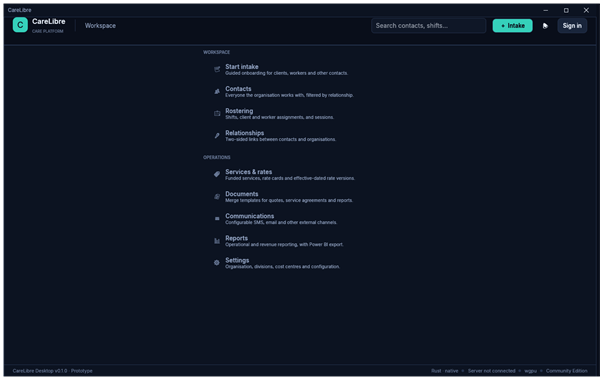
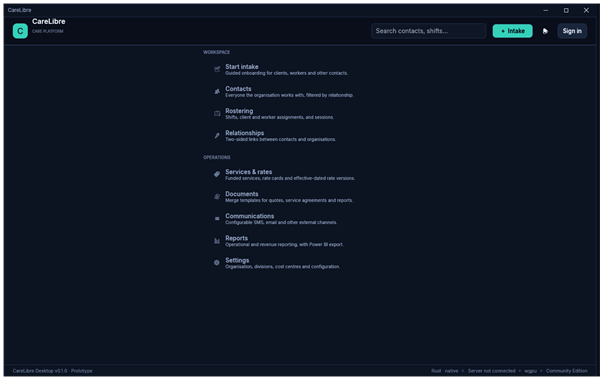
Centre top bar controls and remove page selection highlights
Vertically centres the brand, search, intake, notifications and account controls in the top bar. Removes the current-page label from the top bar and the selected styling from sidebar navigation, since pages now open independently as columns. Refreshes the screenshot gallery.

diff --git a/src/app.rs b/src/app.rs
@@ -4811,7 +4811,7 @@ impl CareLibreApp {
                     .stroke(Stroke::new(1.0, theme::border())),
             )
             .show(ui, |ui| {
-                ui.horizontal(|ui| {
+                ui.horizontal_centered(|ui| {
                     // Brand
                     let (logo, _) = ui.allocate_exact_size(vec2(34.0, 34.0), Sense::hover());
                     ui.painter()
@@ -4832,19 +4832,6 @@ impl CareLibreApp {
                                 .size(8.5),
                         );
                     });
-
-                    ui.add_space(14.0);
-                    let (separator, _) = ui.allocate_exact_size(vec2(1.0, 26.0), Sense::hover());
-                    ui.painter()
-                        .rect_filled(separator, CornerRadius::ZERO, theme::border());
-                    ui.add_space(14.0);
-
-                    let page_label = if self.page_column_open() {
-                        format!("{}  {}", self.page.icon(), self.page.label())
-                    } else {
-                        "Workspace".to_owned()
-                    };
-                    ui.label(RichText::new(page_label).color(theme::muted()).size(13.0));
 
                     ui.with_layout(Layout::right_to_left(Align::Center), |ui| {
                         match &account {
@@ -4955,7 +4942,6 @@ impl CareLibreApp {
             ((panel_width - SIDEBAR_WIDTH) / (full_width - SIDEBAR_WIDTH).max(1.0)).clamp(0.0, 1.0);
         let content_width =
             (SIDEBAR_WIDTH - 24.0) + (CENTERED_MENU_WIDTH - (SIDEBAR_WIDTH - 24.0)) * centeredness;
-        let active_page = self.page_column_open().then_some(self.page);
 
         egui::Panel::left("sidebar")
             .exact_size(panel_width)
@@ -4987,7 +4973,6 @@ impl CareLibreApp {
                 group_label(&mut menu_ui, "WORKSPACE");
                 if nav_button(
                     &mut menu_ui,
-                    active_page == Some(Page::Intake),
                     "📝",
                     "Start intake",
                     "Guided onboarding for clients, workers and other contacts.",
@@ -4999,9 +4984,7 @@ impl CareLibreApp {
                     self.open_intake();
                 }
                 for page in [Page::Contacts, Page::Rostering, Page::Relationships] {
-                    if nav_item(&mut menu_ui, active_page == Some(page), page, centeredness)
-                        .clicked()
-                    {
+                    if nav_item(&mut menu_ui, page, centeredness).clicked() {
                         self.open_page(page);
                     }
                 }
@@ -5014,21 +4997,13 @@ impl CareLibreApp {
                     Page::Communications,
                     Page::Reports,
                 ] {
-                    if nav_item(&mut menu_ui, active_page == Some(page), page, centeredness)
-                        .clicked()
-                    {
+                    if nav_item(&mut menu_ui, page, centeredness).clicked() {
                         self.open_page(page);
                     }
                 }
 
                 if centeredness > 0.5
-                    && nav_item(
-                        &mut menu_ui,
-                        active_page == Some(Page::Settings),
-                        Page::Settings,
-                        centeredness,
-                    )
-                    .clicked()
+                    && nav_item(&mut menu_ui, Page::Settings, centeredness).clicked()
                 {
                     self.open_page(Page::Settings);
                 }
@@ -5043,14 +5018,7 @@ impl CareLibreApp {
                             ui.add_space(8.0);
                             ui.separator();
                             ui.add_space(8.0);
-                            if nav_item(
-                                ui,
-                                active_page == Some(Page::Settings),
-                                Page::Settings,
-                                0.0,
-                            )
-                            .clicked()
-                            {
+                            if nav_item(ui, Page::Settings, 0.0).clicked() {
                                 self.open_page(Page::Settings);
                             }
                             ui.add_space(10.0);
@@ -5211,22 +5179,13 @@ fn group_label(ui: &mut Ui, text: &str) {
     ui.add_space(4.0);
 }
 
-fn nav_item(ui: &mut Ui, selected: bool, page: Page, detail: f32) -> egui::Response {
+fn nav_item(ui: &mut Ui, page: Page, detail: f32) -> egui::Response {
     let height = 38.0 + 8.0 * detail;
-    nav_button(
-        ui,
-        selected,
-        page.icon(),
-        page.label(),
-        page.blurb(),
-        detail,
-        height,
-    )
+    nav_button(ui, page.icon(), page.label(), page.blurb(), detail, height)
 }
 
 fn nav_button(
     ui: &mut Ui,
-    selected: bool,
     icon: &str,
     label: &str,
     tooltip: &str,
@@ -5239,13 +5198,7 @@ fn nav_button(
     let hover =
         ui.ctx()
             .animate_bool_with_time(response.id.with("nav_hover"), response.hovered(), 0.14);
-    if selected {
-        ui.painter()
-            .rect_filled(rect, CornerRadius::same(9), theme::accent_soft(24));
-        let bar = egui::Rect::from_min_size(rect.left_center() + vec2(7.0, -9.0), vec2(3.0, 18.0));
-        ui.painter()
-            .rect_filled(bar, CornerRadius::same(2), theme::accent());
-    } else if hover > 0.0 {
+    if hover > 0.0 {
         ui.painter().rect_filled(
             rect,
             CornerRadius::same(9),
@@ -5253,16 +5206,8 @@ fn nav_button(
         );
     }
 
-    let text_colour = if selected {
-        theme::text()
-    } else {
-        theme::muted()
-    };
-    let icon_colour = if selected {
-        theme::accent()
-    } else {
-        theme::faint()
-    };
+    let text_colour = theme::muted();
+    let icon_colour = theme::faint();
 
     ui.painter().text(
         rect.left_center() + vec2(24.0, 0.0),
@@ -5275,7 +5220,7 @@ fn nav_button(
         rect.left_center() + vec2(50.0, -5.0 * detail),
         Align2::LEFT_CENTER,
         label,
-        if selected || detail > 0.5 {
+        if detail > 0.5 {
             theme::strong_font(13.0 + detail * 0.5)
         } else {
             FontId::proportional(13.0)
